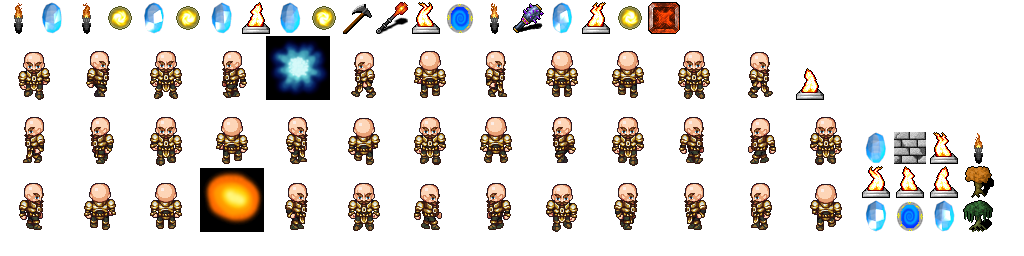
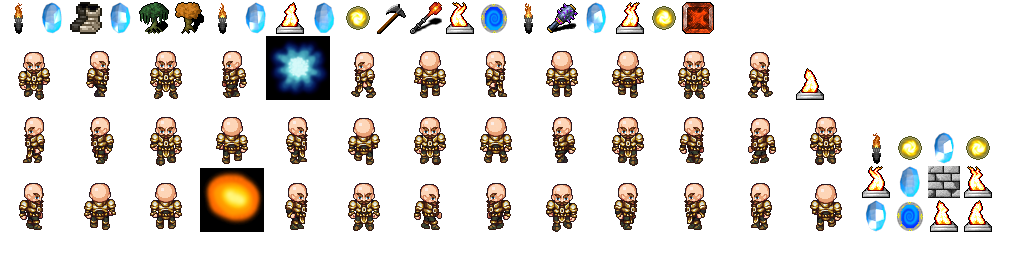
upgrade Fleks to 2.3, add new boots item and update Item UI

Changed region(s): [[0.0625, 0.0, 0.7188, 0.1562], [0.8438, 0.5, 0.9688, 0.9062]]

diff --git a/core/src/main/kotlin/com/github/quillraven/mysticgarden/ui/view/GameView.kt b/core/src/main/kotlin/com/github/quillraven/mysticgarden/ui/view/GameView.kt
@@ -1,12 +1,12 @@
 package com.github.quillraven.mysticgarden.ui.view
 
 import com.badlogic.gdx.math.Interpolation
-import com.badlogic.gdx.scenes.scene2d.actions.Actions.alpha
-import com.badlogic.gdx.scenes.scene2d.actions.Actions.fadeIn
+import com.badlogic.gdx.scenes.scene2d.actions.Actions.*
 import com.badlogic.gdx.scenes.scene2d.ui.Image
 import com.badlogic.gdx.scenes.scene2d.ui.Table
 import com.badlogic.gdx.utils.Align
 import com.badlogic.gdx.utils.Scaling
+import com.github.quillraven.mysticgarden.component.ItemType
 import com.github.quillraven.mysticgarden.ui.Drawable
 import com.github.quillraven.mysticgarden.ui.GdxLabel
 import com.github.quillraven.mysticgarden.ui.Label
@@ -15,6 +15,7 @@ import com.github.quillraven.mysticgarden.ui.actor.collectInfo
 import com.github.quillraven.mysticgarden.ui.get
 import com.github.quillraven.mysticgarden.ui.model.GameModel
 import ktx.actors.*
+import ktx.app.gdxError
 import ktx.scene2d.*
 
 class GameView(model: GameModel, leftHand: Boolean) : KTable, Table(Scene2DSkin.defaultSkin) {
@@ -23,10 +24,6 @@ class GameView(model: GameModel, leftHand: Boolean) : KTable, Table(Scene2DSkin.
 
     private val crystalInfo: CollectInfo
     private val orbInfo: CollectInfo
-
-    private val axeImg: Image
-    private val clubImg: Image
-    private val wandImg: Image
 
     init {
         table { topTableCell ->
@@ -46,27 +43,6 @@ class GameView(model: GameModel, leftHand: Boolean) : KTable, Table(Scene2DSkin.
             topTableCell.top().left().padTop(5f).row()
         }
 
-        table { centerTableCell ->
-            val itemSize = 12f
-            this.defaults().top().height(itemSize).width(itemSize).padRight(4f)
-
-            this@GameView.axeImg = image(Scene2DSkin.defaultSkin[Drawable.AXE]) {
-                this.setScaling(Scaling.fit)
-                this.alpha = 0f
-            }
-            this@GameView.clubImg = image(Scene2DSkin.defaultSkin[Drawable.CLUB]) {
-                this.setScaling(Scaling.fit)
-                this.alpha = 0f
-            }
-            this@GameView.wandImg = image(Scene2DSkin.defaultSkin[Drawable.WAND]) {
-                this.setScaling(Scaling.fit)
-                this.alpha = 0f
-            }
-
-            this.alpha = 0.5f
-            centerTableCell.top().center().padLeft(10f).row()
-        }
-
         table { bottomTableCell ->
             touchpad(0f) { cell ->
                 this.onChangeEvent { model.onTouchChange(knobPercentX, knobPercentY) }
@@ -82,7 +58,6 @@ class GameView(model: GameModel, leftHand: Boolean) : KTable, Table(Scene2DSkin.
         }
 
         setFillParent(true)
-
         initPropertyBinding(model)
     }
 
@@ -106,14 +81,35 @@ class GameView(model: GameModel, leftHand: Boolean) : KTable, Table(Scene2DSkin.
                 }
             }
 
-            onPropertyChange(GameModel::hasAxe) { showItem(axeImg) }
-            onPropertyChange(GameModel::hasClub) { showItem(clubImg) }
-            onPropertyChange(GameModel::hasWand) { showItem(wandImg) }
+            onPropertyChange(GameModel::item) { showItem(itemDrawable(item)) }
         }
     }
 
-    private fun showItem(image: Image) {
-        image += alpha(1f) + alpha(0.2f, 0.5f) + fadeIn(1.5f, Interpolation.bounceIn)
+    private fun itemDrawable(itemType: ItemType): Drawable = when (itemType) {
+        ItemType.AXE -> Drawable.AXE
+        ItemType.CLUB -> Drawable.CLUB
+        ItemType.WAND -> Drawable.WAND
+        ItemType.BOOTS -> Drawable.BOOTS
+        else -> gdxError("Unsupported type $itemType")
+    }
+
+    private fun showItem(drawable: Drawable) {
+        val numItems = stage.actors.size - 1
+        val offsetTop = 30f
+        val offsetLeft = 62f
+        val imgSize = 11f
+        val padLeft = 5f
+
+        stage += Image(Scene2DSkin.defaultSkin[drawable]).also { img ->
+            img.setScaling(Scaling.fit)
+            img.centerPosition(stage.width, stage.height)
+            img += alpha(0.3f) +
+                    fadeIn(2f, Interpolation.bounceIn) +
+                    parallel(
+                        moveTo(offsetLeft + (imgSize + padLeft) * numItems, stage.height - offsetTop, 1f),
+                        sizeTo(imgSize, imgSize, 1f)
+                    )
+        }
     }
 }
 

diff --git a/core/src/main/kotlin/com/github/quillraven/mysticgarden/ui/model/GameModel.kt b/core/src/main/kotlin/com/github/quillraven/mysticgarden/ui/model/GameModel.kt
@@ -19,9 +19,7 @@ class GameModel(
 
     var totalTime by propertyNotify(0)
 
-    var hasAxe by propertyNotify(false)
-    var hasClub by propertyNotify(false)
-    var hasWand by propertyNotify(false)
+    var item by propertyNotify(ItemType.NONE)
 
     init {
         with(eventDispatcher) {
@@ -32,16 +30,8 @@ class GameModel(
 
             register<CrystalPickupEvent> { collectedCrystals = it.crystals }
             register<OrbPickupEvent> { collectedOrbs = it.orbs }
-
+            register<ItemPickupEvent> { item = it.type }
             register<GameTimeEvent> { totalTime = it.totalTimeSeconds }
-
-            register<ItemPickupEvent> {
-                when (it.type) {
-                    ItemType.AXE -> hasAxe = true
-                    ItemType.CLUB -> hasClub = true
-                    ItemType.WAND -> hasWand = true
-                }
-            }
         }
     }
 

diff --git a/core/src/main/kotlin/com/github/quillraven/mysticgarden/component/Light.kt b/core/src/main/kotlin/com/github/quillraven/mysticgarden/component/Light.kt
@@ -9,6 +9,7 @@ import com.badlogic.gdx.physics.box2d.Body
 import com.github.quillraven.fleks.Component
 import com.github.quillraven.fleks.ComponentHook
 import com.github.quillraven.fleks.ComponentType
+import com.github.quillraven.fleks.componentTypeOf
 
 typealias B2DLight = box2dLight.Light
 
@@ -25,8 +26,8 @@ data class Light(
     override fun type(): ComponentType<Light> = cmpType
 
     companion object {
-        val LightPoint = object : ComponentType<Light>() {}
-        val LightCone = object : ComponentType<Light>() {}
+        val LightPoint = componentTypeOf<Light>()
+        val LightCone = componentTypeOf<Light>()
 
         private const val numRays = 64
         val ambientColor = Color(0.05f, 0.05f, 0.05f, 1f)

diff --git a/core/src/main/kotlin/com/github/quillraven/mysticgarden/screen/GameScreen.kt b/core/src/main/kotlin/com/github/quillraven/mysticgarden/screen/GameScreen.kt
@@ -2,7 +2,6 @@ package com.github.quillraven.mysticgarden.screen
 
 import box2dLight.RayHandler
 import com.badlogic.gdx.Gdx
-import com.badlogic.gdx.Input
 import com.badlogic.gdx.InputMultiplexer
 import com.badlogic.gdx.Preferences
 import com.badlogic.gdx.graphics.OrthographicCamera
@@ -135,11 +134,6 @@ class GameScreen(
         uiStage.draw()
         // reset alpha value for game rendering
         batch.color.a = 1f
-
-        if (Gdx.input.isKeyPressed(Input.Keys.R)) {
-            uiStage.clear()
-            uiStage.actors { gameView(GameModel(eventDispatcher, keyboardInput), false) }
-        }
     }
 
     override fun dispose() {

diff --git a/core/src/main/kotlin/com/github/quillraven/mysticgarden/system/CollisionSystem.kt b/core/src/main/kotlin/com/github/quillraven/mysticgarden/system/CollisionSystem.kt
@@ -85,6 +85,13 @@ class CollisionSystem(
                 eventDispatcher.dispatch(ItemPickupEvent(ItemType.WAND))
             }
 
+            TiledObjectType.BOOTS -> {
+                player[Player].items.add(ItemType.BOOTS)
+                player[Move].maxSpeed = Move.defaultSpeed * 1.5f
+                audioService.play(SoundAsset.JINGLE)
+                eventDispatcher.dispatch(ItemPickupEvent(ItemType.BOOTS))
+            }
+
             TiledObjectType.TREE -> {
                 if (player hasItem ItemType.AXE) {
                     audioService.play(SoundAsset.CHOP)

diff --git a/core/src/main/kotlin/com/github/quillraven/mysticgarden/component/Move.kt b/core/src/main/kotlin/com/github/quillraven/mysticgarden/component/Move.kt
@@ -5,8 +5,10 @@ import com.github.quillraven.fleks.Component
 import com.github.quillraven.fleks.ComponentType
 import ktx.math.vec2
 
-data class Move(val maxSpeed: Float, val speed: Vector2 = vec2()) : Component<Move> {
+data class Move(var maxSpeed: Float, val speed: Vector2 = vec2()) : Component<Move> {
     override fun type(): ComponentType<Move> = Move
 
-    companion object : ComponentType<Move>()
+    companion object : ComponentType<Move>() {
+        const val defaultSpeed = 3f
+    }
 }

diff --git a/core/src/main/kotlin/com/github/quillraven/mysticgarden/entity.kt b/core/src/main/kotlin/com/github/quillraven/mysticgarden/entity.kt
@@ -24,7 +24,7 @@ fun World.spawnPlayer(x: Float, y: Float): Entity {
     return this.entity {
         it += Player()
         it += CameraLock()
-        it += Move(3f)
+        it += Move(Move.defaultSpeed)
         val boundary = Boundary(x, y, 0.8f, 0.8f)
         it += boundary
         it += Physic.of(physicWorld, boundary, BodyType.DynamicBody, it, MysticGarden.b2dPlayer)

diff --git a/core/src/main/kotlin/com/github/quillraven/mysticgarden/component/Tiled.kt b/core/src/main/kotlin/com/github/quillraven/mysticgarden/component/Tiled.kt
@@ -18,7 +18,8 @@ enum class TiledObjectType(val regionName: RegionName) {
     WALL(RegionName.WALL),
     PORTAL(RegionName.PORTAL),
     WAND(RegionName.WAND),
-    CLUB(RegionName.CLUB);
+    CLUB(RegionName.CLUB),
+    BOOTS(RegionName.BOOTS);
 
     companion object {
         fun of(name: String): TiledObjectType {

diff --git a/core/src/main/kotlin/com/github/quillraven/mysticgarden/Assets.kt b/core/src/main/kotlin/com/github/quillraven/mysticgarden/Assets.kt
@@ -128,7 +128,8 @@ enum class RegionName(val isAnimation: Boolean = false) {
     HERO_UP(isAnimation = true),
     HERO_DOWN(isAnimation = true),
     HERO_LEFT(isAnimation = true),
-    HERO_RIGHT(isAnimation = true);
+    HERO_RIGHT(isAnimation = true),
+    BOOTS;
 
     val key: String = this.name.lowercase()
 }

diff --git a/core/src/main/kotlin/com/github/quillraven/mysticgarden/component/Player.kt b/core/src/main/kotlin/com/github/quillraven/mysticgarden/component/Player.kt
@@ -5,7 +5,7 @@ import com.github.quillraven.fleks.ComponentType
 import ktx.collections.GdxArray
 
 enum class ItemType {
-    AXE, CLUB, WAND
+    NONE, AXE, CLUB, WAND, BOOTS
 }
 
 data class Player(

diff --git a/core/src/main/kotlin/com/github/quillraven/mysticgarden/ui/skin.kt b/core/src/main/kotlin/com/github/quillraven/mysticgarden/ui/skin.kt
@@ -35,7 +35,8 @@ enum class Drawable {
     SLOT,
     TOUCH_KNOB,
     TOUCH_PAD,
-    WAND;
+    WAND,
+    BOOTS;
 
     val atlasKey: String = this.name.lowercase()
 }
